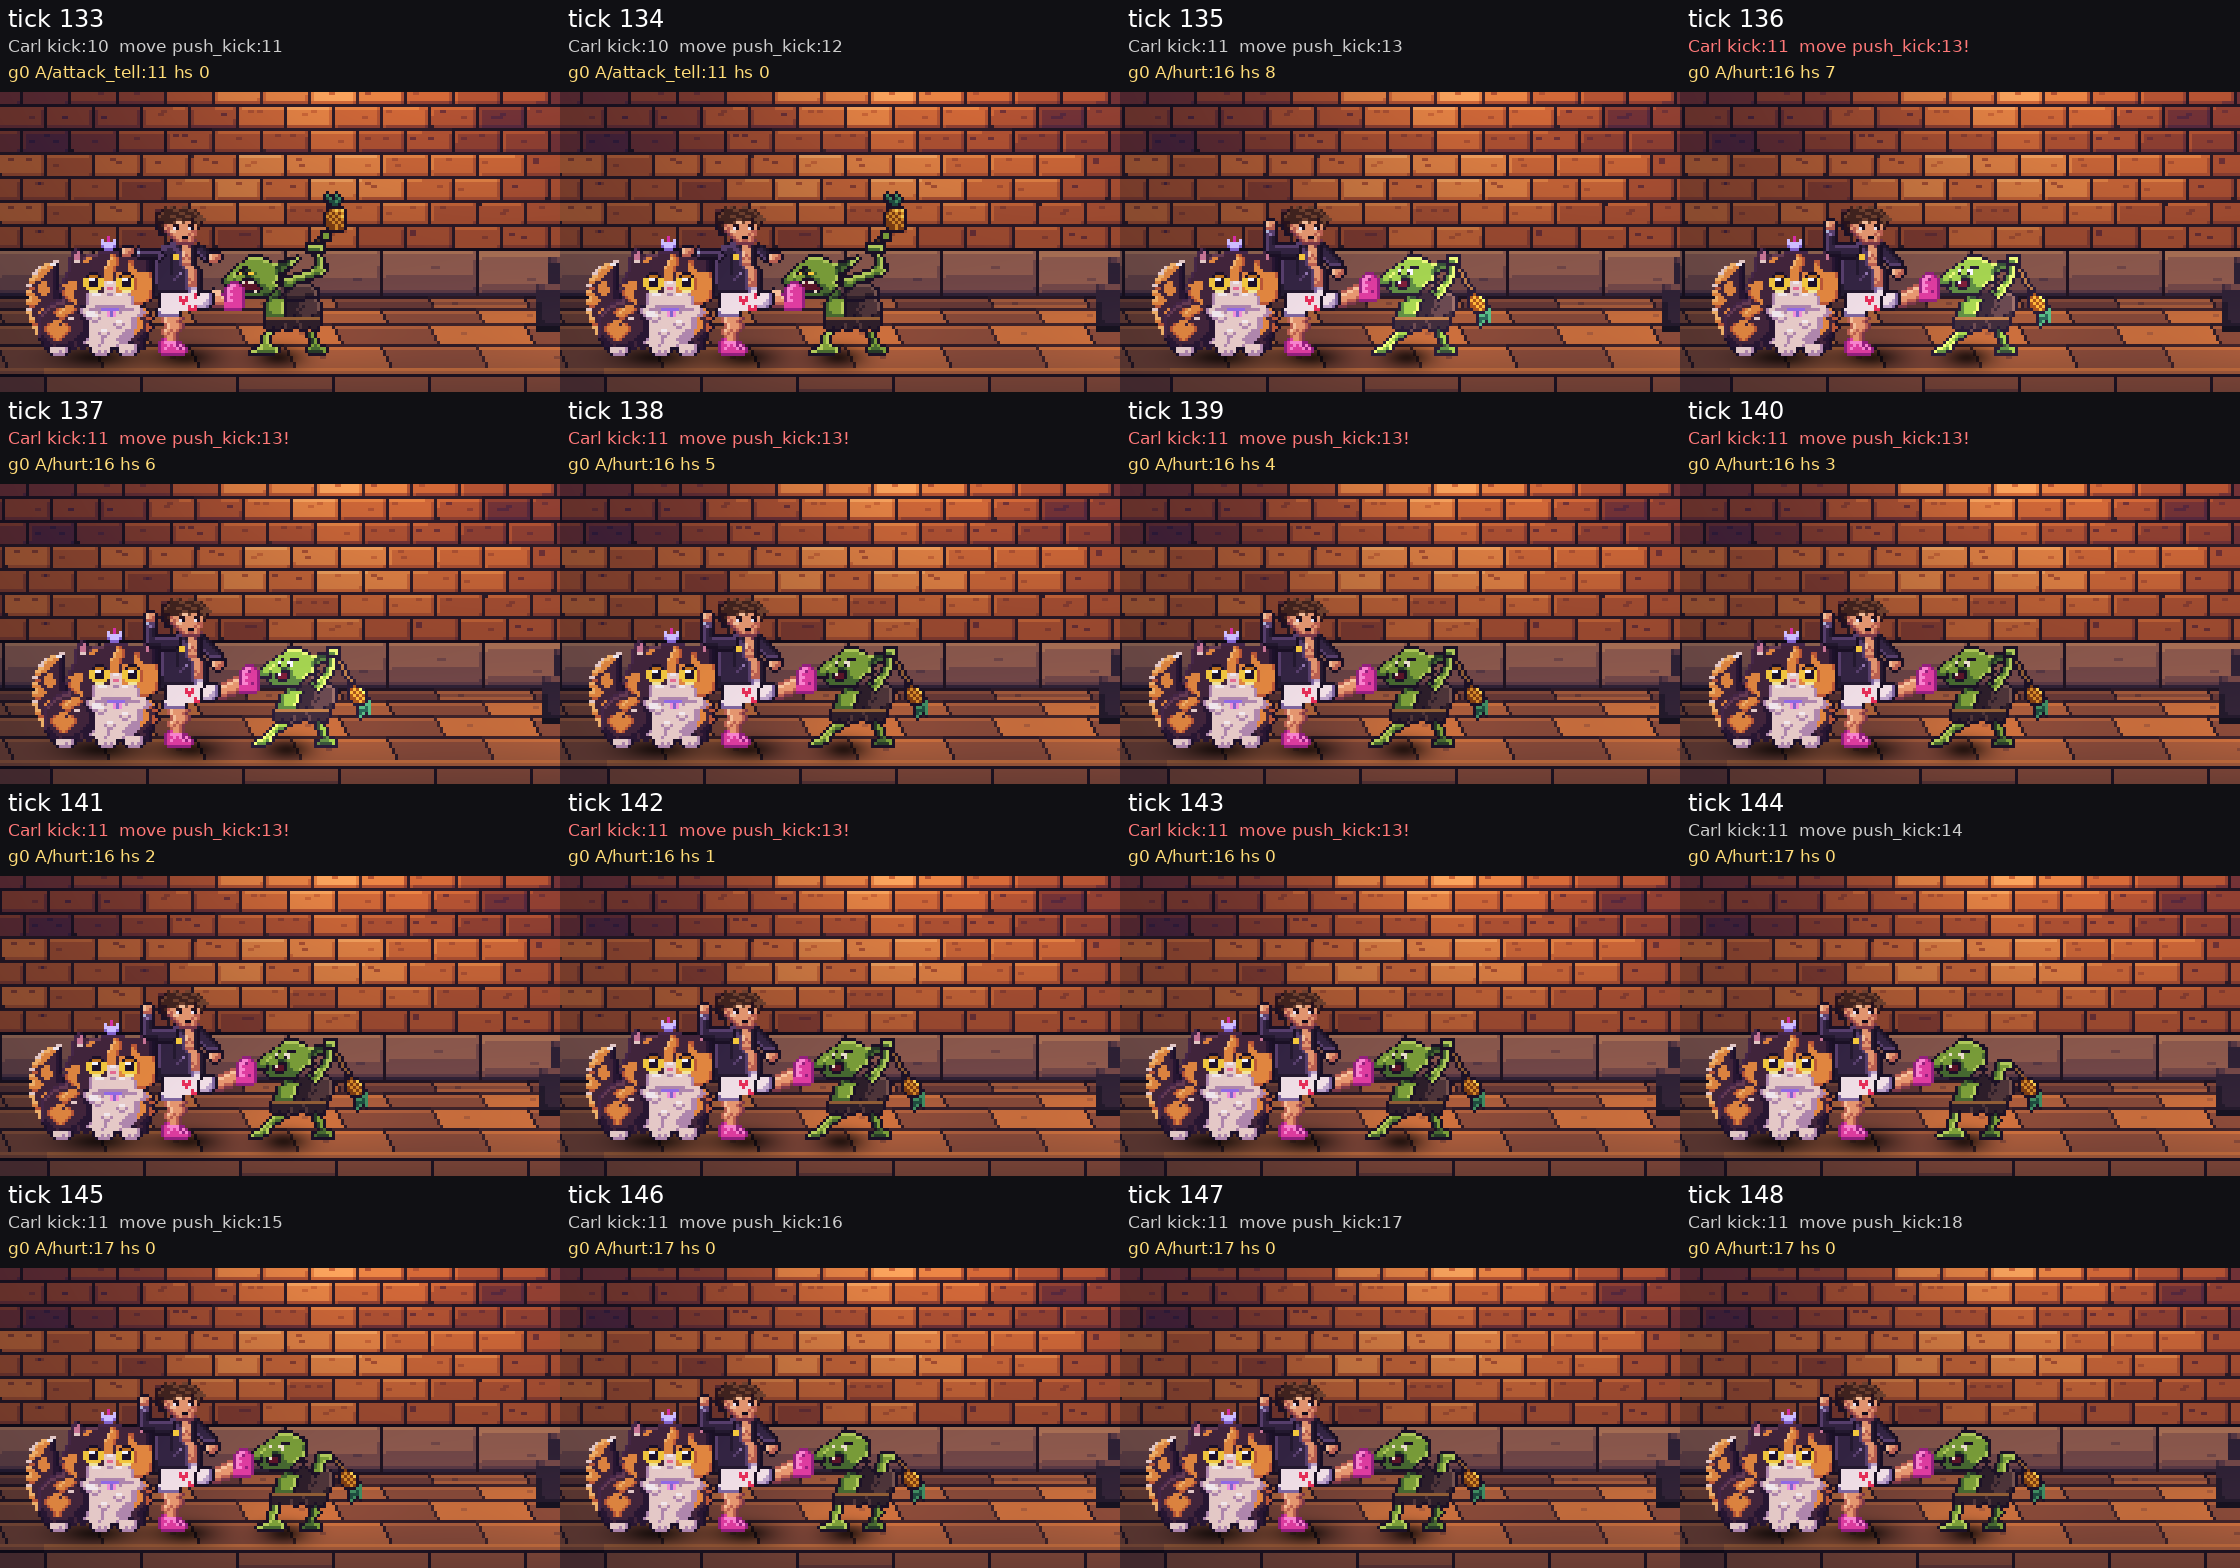
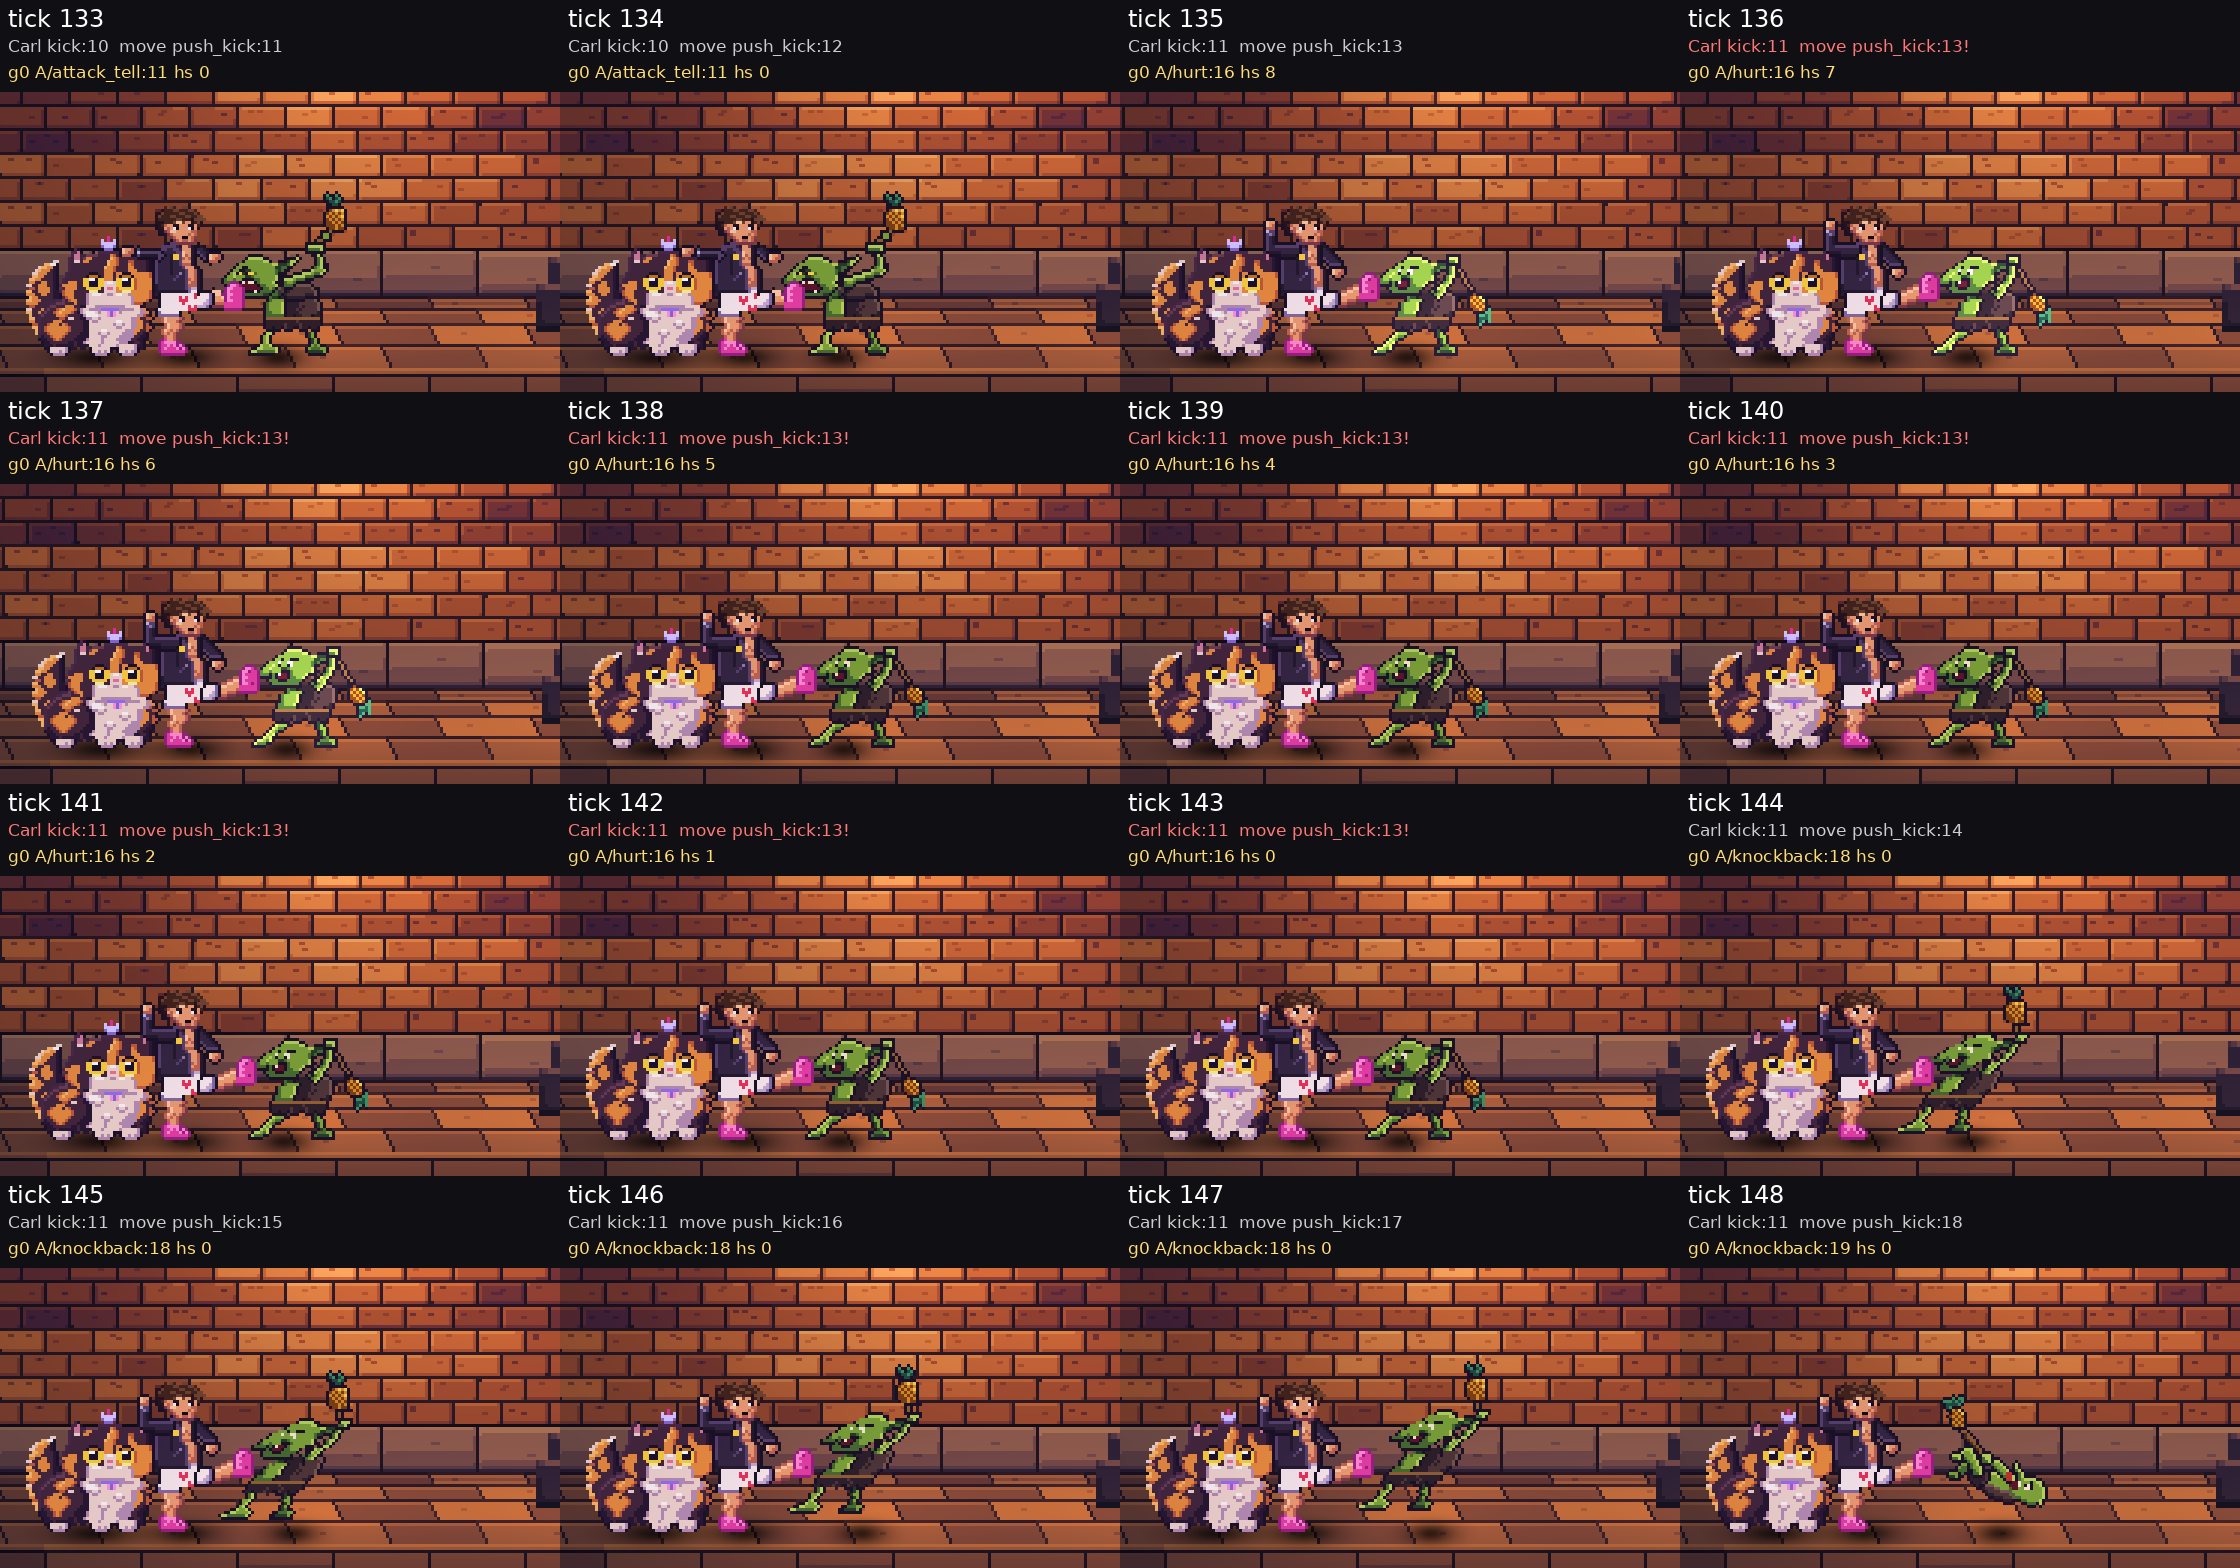
Regenerate the art-int-02 kick GIF and strip from a real render of the launching kick; fix backlog input note

diff --git a/docs/evidence/art-int-02/README.md b/docs/evidence/art-int-02/README.md
@@ -1,6 +1,6 @@
 # ART-INT-02 evidence: Carl melee and goblin art in the Floor 1 combat fixtures
 
-The approved Carl melee ([ANIM-CARL-02](../../02-art/carl-melee-anim-02-spec.md)) and goblin ([GOB-01](../../02-art/gob-01-goblin-spec.md), variants A and B) atlases replace the disclosed CP-01 placeholder rectangles in `floor01_scene`. Presentation only: the sim, every fixture `COMBAT_STATE` hash and the story-route hashes (`walk_right` t250 `931868d6afa56498`, t613 `82b8f87fa644de48`) are unchanged; the one new hash was the `cp01_kick` fixture (`13a31642299f0768`, input data only). **Superseded by I-03 PR A:** the kick now launches, `cp01_kick` is retimed (second kick on tick 247, 340 ticks) and its hash is `9e13d64619149b71`; the kick GIF and strip below are STALE (see the notes). Design and mapping: [Combat animation](../../03-tech/floor01-scene.md#combat-animation-art-int-02). **Nobody has judged the look or the feel yet; the owner review is pending.**
+The approved Carl melee ([ANIM-CARL-02](../../02-art/carl-melee-anim-02-spec.md)) and goblin ([GOB-01](../../02-art/gob-01-goblin-spec.md), variants A and B) atlases replace the disclosed CP-01 placeholder rectangles in `floor01_scene`. Presentation only: the sim, every fixture `COMBAT_STATE` hash and the story-route hashes (`walk_right` t250 `931868d6afa56498`, t613 `82b8f87fa644de48`) are unchanged; the one new hash was the `cp01_kick` fixture (`13a31642299f0768`, input data only). **Updated by I-03 PR A:** the kick now launches, `cp01_kick` is retimed (second kick on tick 247, 340 ticks) and its hash is `9e13d64619149b71`; the kick GIF and strip below were regenerated from a real xvfb render of the new fixture. Design and mapping: [Combat animation](../../03-tech/floor01-scene.md#combat-animation-art-int-02). **Nobody has judged the look or the feel yet; the owner review is pending.**
 
 Everything below comes from the real Bevy render (software Vulkan under Xvfb, 1920x1080, scale 3, lighting on), one capture per tick, produced by `xvfb-run -a -s '-screen 0 1920x1080x24' bash scripts/ci_floor01_combat.sh render`; the render run's final sim state and the frames it drew (`COMBAT_ANIM_STATE`) are compared with the headless replay by that script. `python3 scripts/make_art_int02_evidence.py` builds the images from the captures.
 
@@ -12,7 +12,7 @@ Everything below comes from the real Bevy render (software Vulkan under Xvfb, 19
 * **F-a, stacked goblins:** `still_retry_goblins_drawn_apart_x2.png` (cp01_retry ticks 399, 416, 430): the second goblin is drawn 6 px away from Carl and behind the first one.
 * **F-b:** goblins A and B walk three frames out of phase (`cp02_two_goblins` GIF).
 * **F-c:** `strip_carl_knockdown_ticks399-448.png`: the blow (h0 held through the freeze), launch, flight, landing (d0) and sprawl (d1) without a head drop or a pop.
-* **F-d:** `strip_kick_ticks133-148.png` and `cp01_kick_ticks128-188_960x540.gif`: the new `cp01_kick` fixture, k3 on the hit tick 135 (recoil for the 9 frozen ticks, then the stagger frame) and the killing kick on 183. **STALE after tick 144:** the committed GIF and strip show the pre-launch behaviour (stagger, killing kick on 183). Since I-03 PR A the kick launches the goblin and the killing kick lands on tick 260; the real-frame render job (`ci_floor01_combat.sh render`, xvfb) was not rerun for this, so the images were not regenerated. The committed `anim_trace_cp01_kick.txt` and `../cp01-feel/headless_cp01_kick.txt` are current.
+* **F-d:** `strip_kick_ticks133-148.png` and `cp01_kick_ticks128-188_960x540.gif`: the new `cp01_kick` fixture, k3 on the hit tick 135 (recoil for the 9 frozen ticks, then the stagger frame) and the killing kick on 183. Since I-03 PR A the kick launches the goblin (recoil frame 16 for the hit-stop, then `knockback` 18, 19, `down` and `getup` by tick 188) and the killing kick lands on tick 260, outside the 61-tick window. The GIF and strip show this (regenerated with `make_art_int02_evidence.py` from a `--scale 3` capture of ticks 128 to 188).
 * **F-e:** lying goblins are drawn below Donut.
 
 ## GIFs
@@ -25,14 +25,14 @@ Native-pixel 960x540 crops of the 1920x1080 captures (no scaling), one frame per
 | `cp01_goblin_attacks_ticks128-188_960x540.gif` | the goblin's tell, smear, impact on Carl (tick 153), Carl's flinch and the goblin's recovery |
 | `cp01_interrupt_ticks122-182_960x540.gif` | a jab landing inside the tell: the swing never happens, recoil for 4 ticks then the stagger frame held |
 | `cp02_two_goblins_ticks60-120_960x540.gif` | variants A and B walking in (out of phase), jab, haymaker kill of the first goblin and the second one caught (non-lethal haymaker: recoil for 6 frozen ticks, then the stagger frame) |
-| `cp01_kick_ticks128-188_960x540.gif` | **STALE after tick 144 (pre-launch kick, killing kick on 183; the fixture now ends on tick 260)**: the push kick, k3 on the hit tick 135 inside the tell |
+| `cp01_kick_ticks128-188_960x540.gif` | the push kick: k3 on the hit tick 135 inside the tell, then the launch, flight, lying and get-up of the kicked goblin (ticks 128 to 188; the killing kick on 260 is outside the window) |
 | `cp01_retry_ticks398-449_960x540.gif` | Carl's defeat, launch, flight, landing and sprawl until the restart, the two goblins drawn apart |
 
 ## Per-tick strips
 
 * `strip_haymaker_kill_ticks150-161.png`: every tick from the startup of the haymaker through the kill. Tick 152 is the hit (b1 contact, goblin recoil 16, hit-stop counter 8), ticks 153 to 160 hold both frames while the sim is frozen, tick 161 is the first moving tick (launch frame 18).
 * `strip_goblin_swing_hits_carl_ticks149-160.png`: wind-up hold (11), smear (12, ticks 151 and 152), impact (13) on the hit tick 153, Carl's impact frame (15) held through the 4-tick freeze and the following flinch ticks; the goblin is drawn over Carl while it swings.
-* `strip_carl_knockdown_ticks399-448.png`, `strip_kick_ticks133-148.png`: see the fix round above. **`strip_kick_ticks133-148.png` is STALE after tick 144** (the kick now launches instead of staggering).
+* `strip_carl_knockdown_ticks399-448.png`, `strip_kick_ticks133-148.png`: see the fix round above.
 
 ## Stills (full 1920x1080)
 

diff --git a/docs/03-tech/floor01-scene.md b/docs/03-tech/floor01-scene.md
@@ -435,7 +435,7 @@ Scope: `docs/07-agents/i03-goblin-death-implementation-handoff.md`. All four out
 * **Temporary art, disclosed.** A crushed goblin plays the existing GOB-01 `down` then `corpse`. There is no crush pose (GOB-02-CRUSH is a separate art work order) and **no shore, block or dust is drawn in the fixtures yet**: the ENV-02 art lives in the opening kit, which the fixture scene does not load. The prop states appear in `COMBAT_TRACE` (`shore=<hits>/<prop>/<block>`) and the events only.
 * **Open owner question: hitting a lying goblin.** A `Downed` goblin keeps its hurtbox: a jab stands it up at once (`Hurt`), a kick launches it again (and any second hit defeats it, since a launch leaves it with one hit point). Intentional for now (no invulnerable getup), not approved; decide whether lying goblins may be hit.
 * **Not done (split out):** the shore/block render in the fixture scene (needs the opening kit in the combat scene), wiring into the normal route (CHASE-01), damage to Carl inside the footprint (the spec proposes a hit; left off, a tuning decision), 2P/solo ownership of the breaking hit (slot 0 only), GOB-02-CRUSH art, sound.
-* **Replay migration.** Only `cp01_kick` changed (the kick now launches, so the second kick moved from tick 170 to 247 and the fixture lasts 340 ticks): old `13a31642299f0768`, new `9e13d64619149b71`. The other seven fixtures and the normal-corridor hashes are unchanged (tested). The hash now mixes the held `physical` button only while it is held. `docs/evidence/art-int-02` GIF and still captures of the kick predate the launch and are stale after tick 144; the render job regenerates them. New headless replays: `docs/evidence/cp01-feel/headless_cp0{2_kick_contact,3_shore_kill,3_shore_miss}.txt`, full traces in `docs/evidence/i03-kills/`.
+* **Replay migration.** Only `cp01_kick` changed (the kick now launches, so the second kick moved from tick 170 to 247 and the fixture lasts 340 ticks): old `13a31642299f0768`, new `9e13d64619149b71`. The other seven fixtures and the normal-corridor hashes are unchanged (tested). The hash now mixes the held `physical` button only while it is held. The art-int-02 kick GIF and strip were regenerated from a real xvfb capture of the new fixture (ticks 128 to 188, the launch and get-up); the kick's contact still is unchanged (hit tick 135). New headless replays: `docs/evidence/cp01-feel/headless_cp0{2_kick_contact,3_shore_kill,3_shore_miss}.txt`, full traces in `docs/evidence/i03-kills/`.
 
 | Fixture | Setup | Script | Final hash |
 | --- | --- | --- | --- |

diff --git a/docs/04-production/backlog.md b/docs/04-production/backlog.md
@@ -4,7 +4,7 @@
 
 **Owner-approved for MVP:** the four face-button verbs are Cross/A jump, Square/X primary attack, Triangle/Y physical attack (**Carl kicks; never enemy grabs**), and Circle/B story-unlocked special. R1/RB interacts; L1/LB swaps heroes in solo. Donut is an agile low-damage cat before the biscuit and gains Magic Missile as her primary after it; Carl remains physically focused and later uses story-earned explosives. The control grammar is future-floor-extensible, controller-independent and explicitly excludes mandatory twin-stick aim, dodge or sprint inputs. See [the authoritative controller contract](../01-design/mvp-controller-contract.md).
 
-**Implementation state:** docs decision only, **not** implemented/validated in the integrated Bevy scene. The old `special_pressed`-as-kick CP-01 fixture mapping was migrated to a separate physical-attack input in `floor01_scene` (I-03 PR A; pad restart moved North to Select, owner sign-off pending); remaining: preserve deterministic replay and prove DualSense + Steam Controller/Steam Deck play, true 2P controls, solo swap and pre/post-biscuit capability gates. Game-feel, input timings, aerial move variants and optional aiming/special cycling remain pending human playtests. Avoid parallel modifications to the ongoing combat scene input schema.
+**Implementation state:** partly implemented (I-03 PR A, draft): `floor01_scene` fixtures now have separate PrimaryAttack, PhysicalAttack (Triangle/Y, K / North) and EquippedSpecial inputs, replay-tested, with the old `special_pressed`-as-kick mapping migrated (pad restart moved North to Select, owner sign-off pending). The rest of the contract is **not** implemented/validated in the integrated Bevy scene: interact, solo swap, Steam Controller/Deck mappings and 2P. Still to do: preserve deterministic replay and prove DualSense + Steam Controller/Steam Deck play, true 2P controls, solo swap and pre/post-biscuit capability gates. Game-feel, input timings, aerial move variants and optional aiming/special cycling remain pending human playtests. Avoid parallel modifications to the ongoing combat scene input schema.
 
 ## Approved Floor 01 enemy concept batch (2026-11-17)
 
